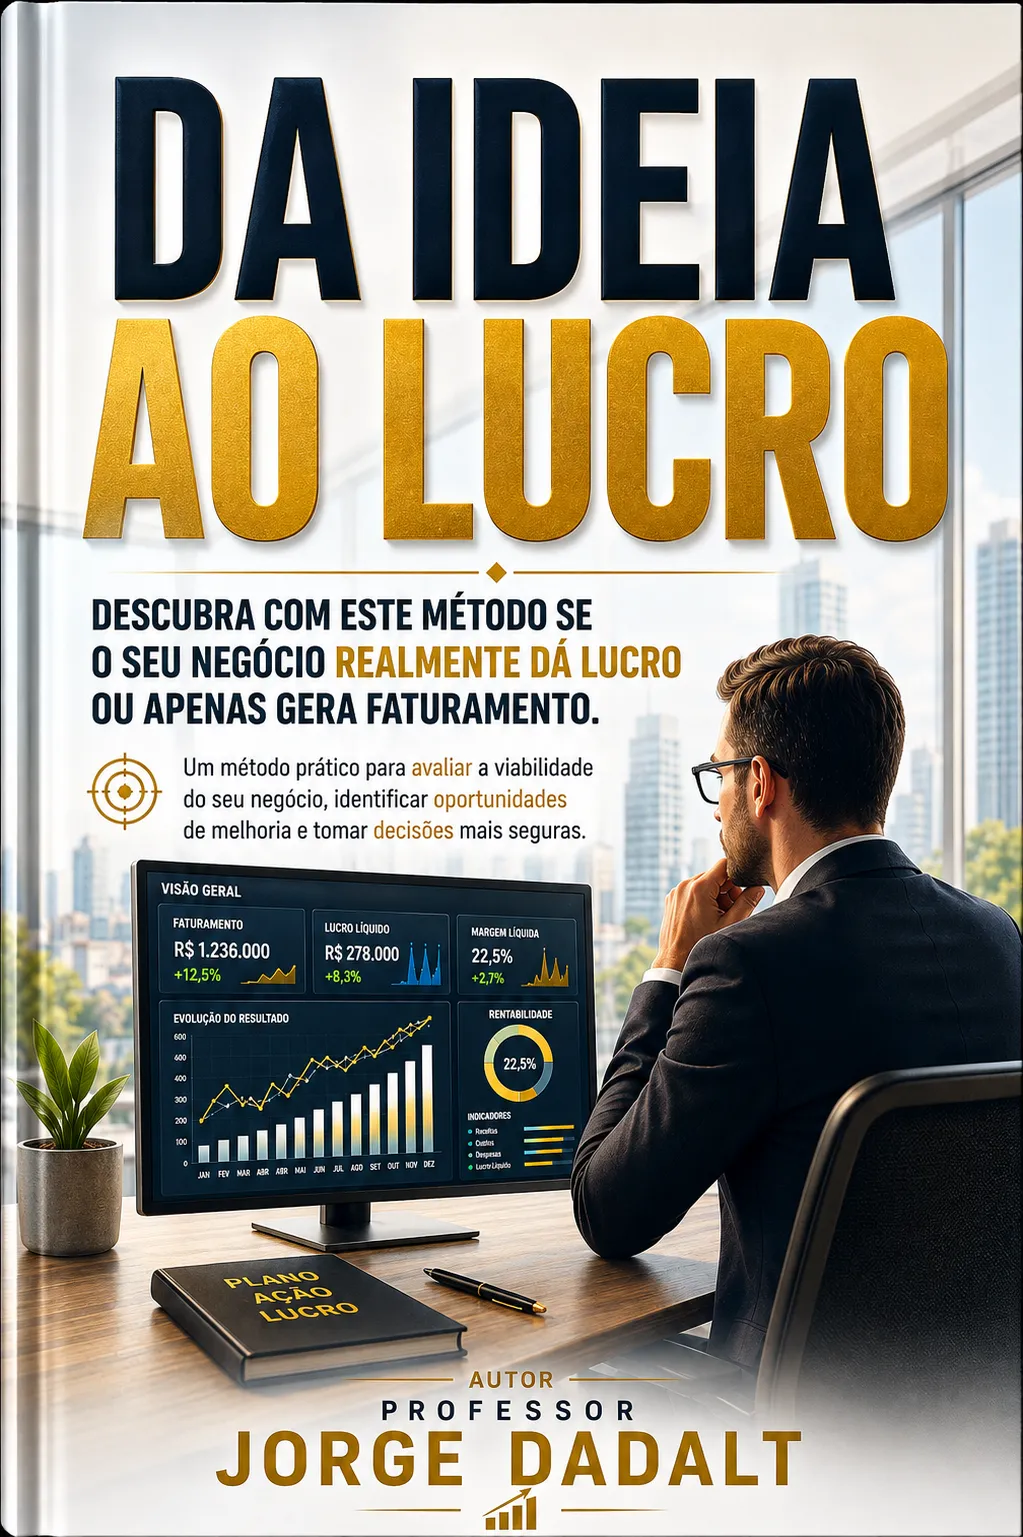
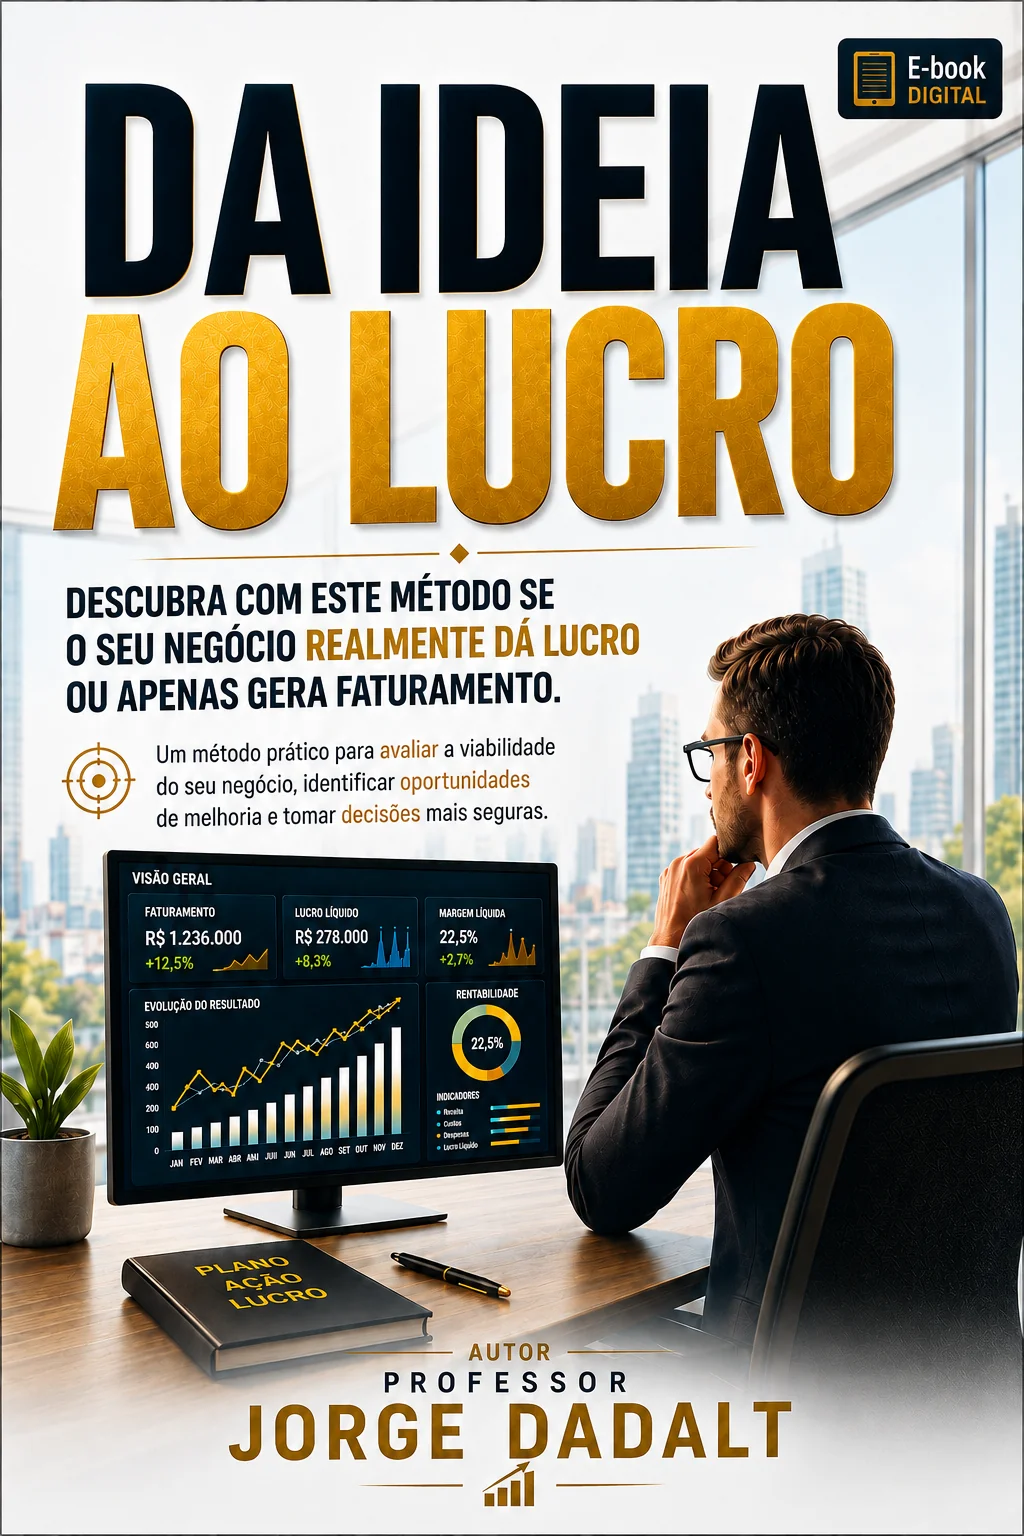
Atualiza capas reais dos 3 livros (e-book + impresso)
- Novas capas enviadas pelo cliente para Trabalhe Pouco Ganhe Muito,
  Da Ideia ao Lucro e O Seu Maior Patrimônio, cada uma em versão
  e-book (capa digital) e impresso (capa 3D), otimizadas em WebP.
- Atualizados os cards em produtos.html e o campo imagem dos 4
  produtos que mudaram de arquivo (banco de dados).
- Removida imagem órfã que não era mais referenciada em lugar nenhum.

diff --git a/produtos.html b/produtos.html
@@ -155,8 +155,8 @@
             <div class="product-visual book-scene">
               <img
                 class="book-cover-image"
-                src="assets/images/livro-trabalhe-pouco-ganhe-muito.webp"
-                alt="Capa do livro Trabalhe Pouco, Ganhe Muito, do professor Jorge Dadalt"
+                src="assets/images/ebook-trabalhe-pouco-ganhe-muito.webp"
+                alt="Capa do e-book Trabalhe Pouco, Ganhe Muito, do professor Jorge Dadalt"
                 width="1024"
                 height="1536"
                 loading="lazy"
@@ -285,7 +285,7 @@
 
           <article class="product-showcase reverse" id="ideia-ao-lucro-impresso" data-product-category="livros">
             <div class="product-visual book-scene">
-              <img class="book-cover-image" src="assets/images/ebook-da-ideia-ao-lucro.webp" alt="Capa do livro impresso Da Ideia ao Lucro, do professor Jorge Dadalt" width="1024" height="1536" loading="lazy" decoding="async" />
+              <img class="book-cover-image" src="assets/images/livro-da-ideia-ao-lucro.webp" alt="Capa do livro impresso Da Ideia ao Lucro, do professor Jorge Dadalt" width="1024" height="1536" loading="lazy" decoding="async" />
             </div>
             <div class="product-copy">
               <span class="kicker">Livro impresso</span>
@@ -297,7 +297,7 @@
 
           <article class="product-showcase" id="o-seu-maior-patrimonio" data-product-category="livros">
             <div class="product-visual book-scene">
-              <img class="catalog-art-image" src="assets/images/produtos/o-seu-maior-patrimonio.webp" alt="Capa do e-book O Seu Maior Patrimônio" width="1024" height="1536" loading="lazy" decoding="async" />
+              <img class="catalog-art-image" src="assets/images/ebook-o-seu-maior-patrimonio.webp" alt="Capa do e-book O Seu Maior Patrimônio" width="1024" height="1536" loading="lazy" decoding="async" />
             </div>
             <div class="product-copy">
               <span class="kicker">E-book</span>
@@ -314,7 +314,7 @@
 
           <article class="product-showcase reverse" id="o-seu-maior-patrimonio-impresso" data-product-category="livros">
             <div class="product-visual book-scene">
-              <img class="catalog-art-image" src="assets/images/produtos/o-seu-maior-patrimonio.webp" alt="Capa do livro impresso O Seu Maior Patrimônio" width="1024" height="1536" loading="lazy" decoding="async" />
+              <img class="catalog-art-image" src="assets/images/livro-o-seu-maior-patrimonio.webp" alt="Capa do livro impresso O Seu Maior Patrimônio" width="1024" height="1536" loading="lazy" decoding="async" />
             </div>
             <div class="product-copy">
               <span class="kicker">Livro impresso</span>
